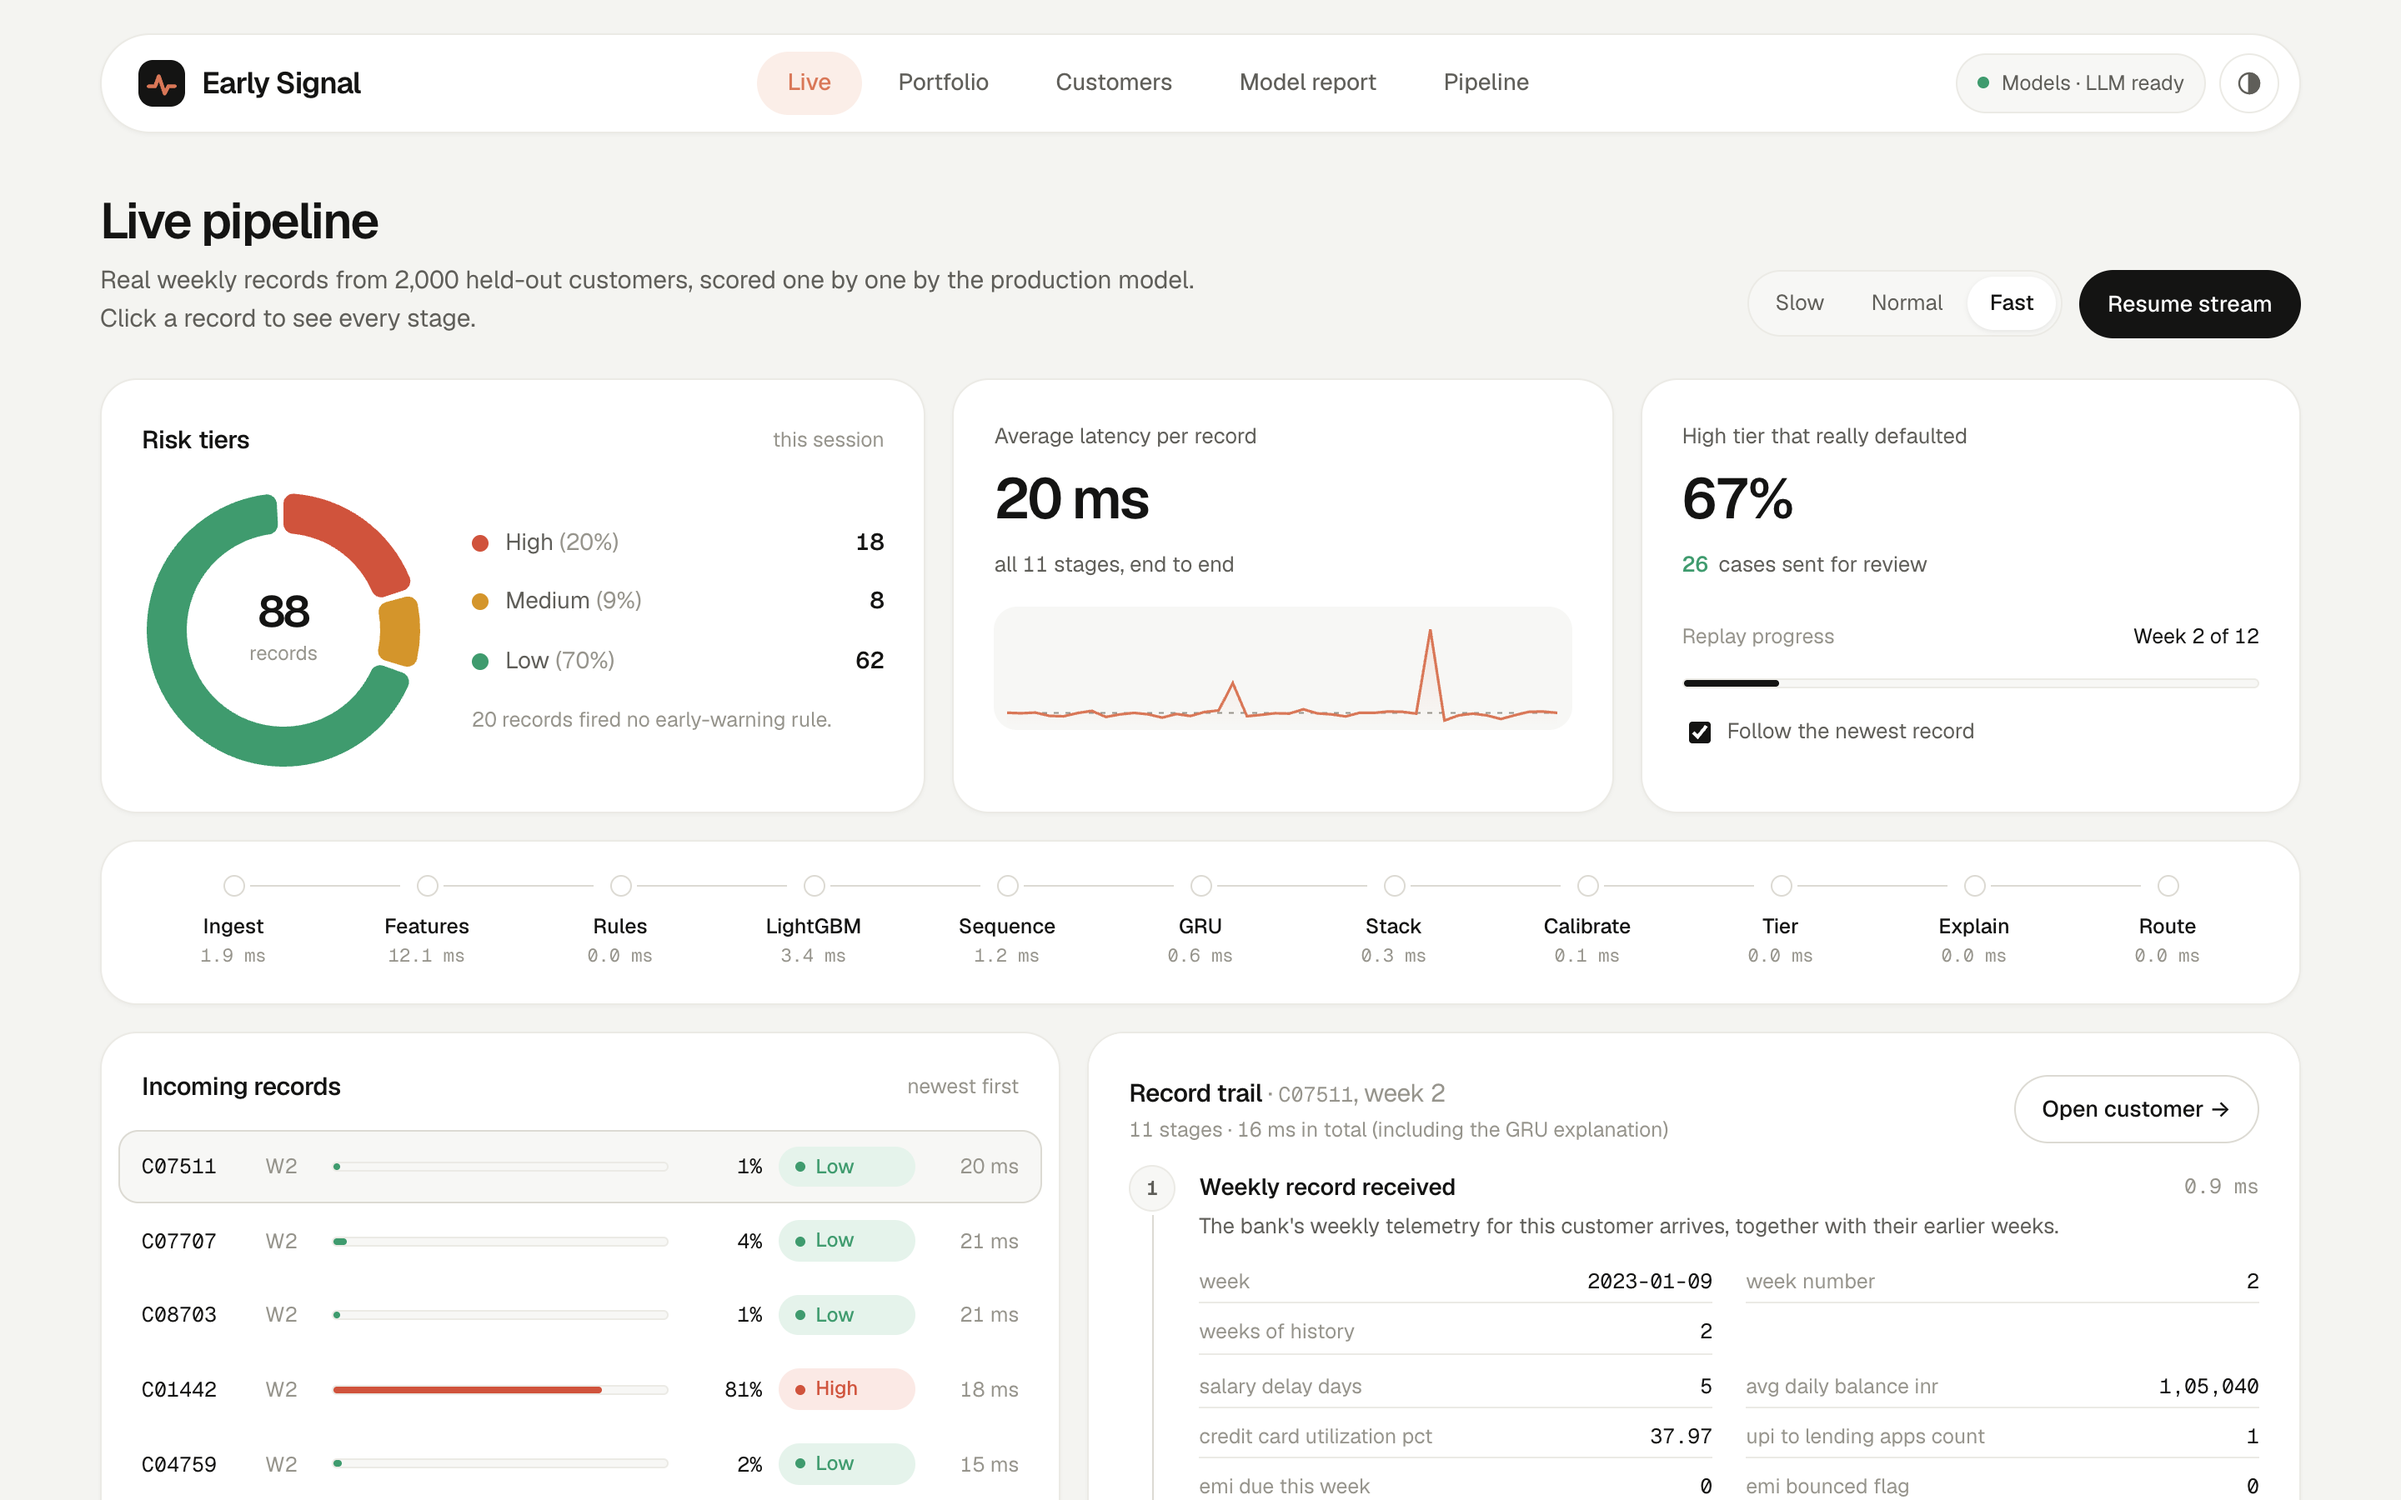
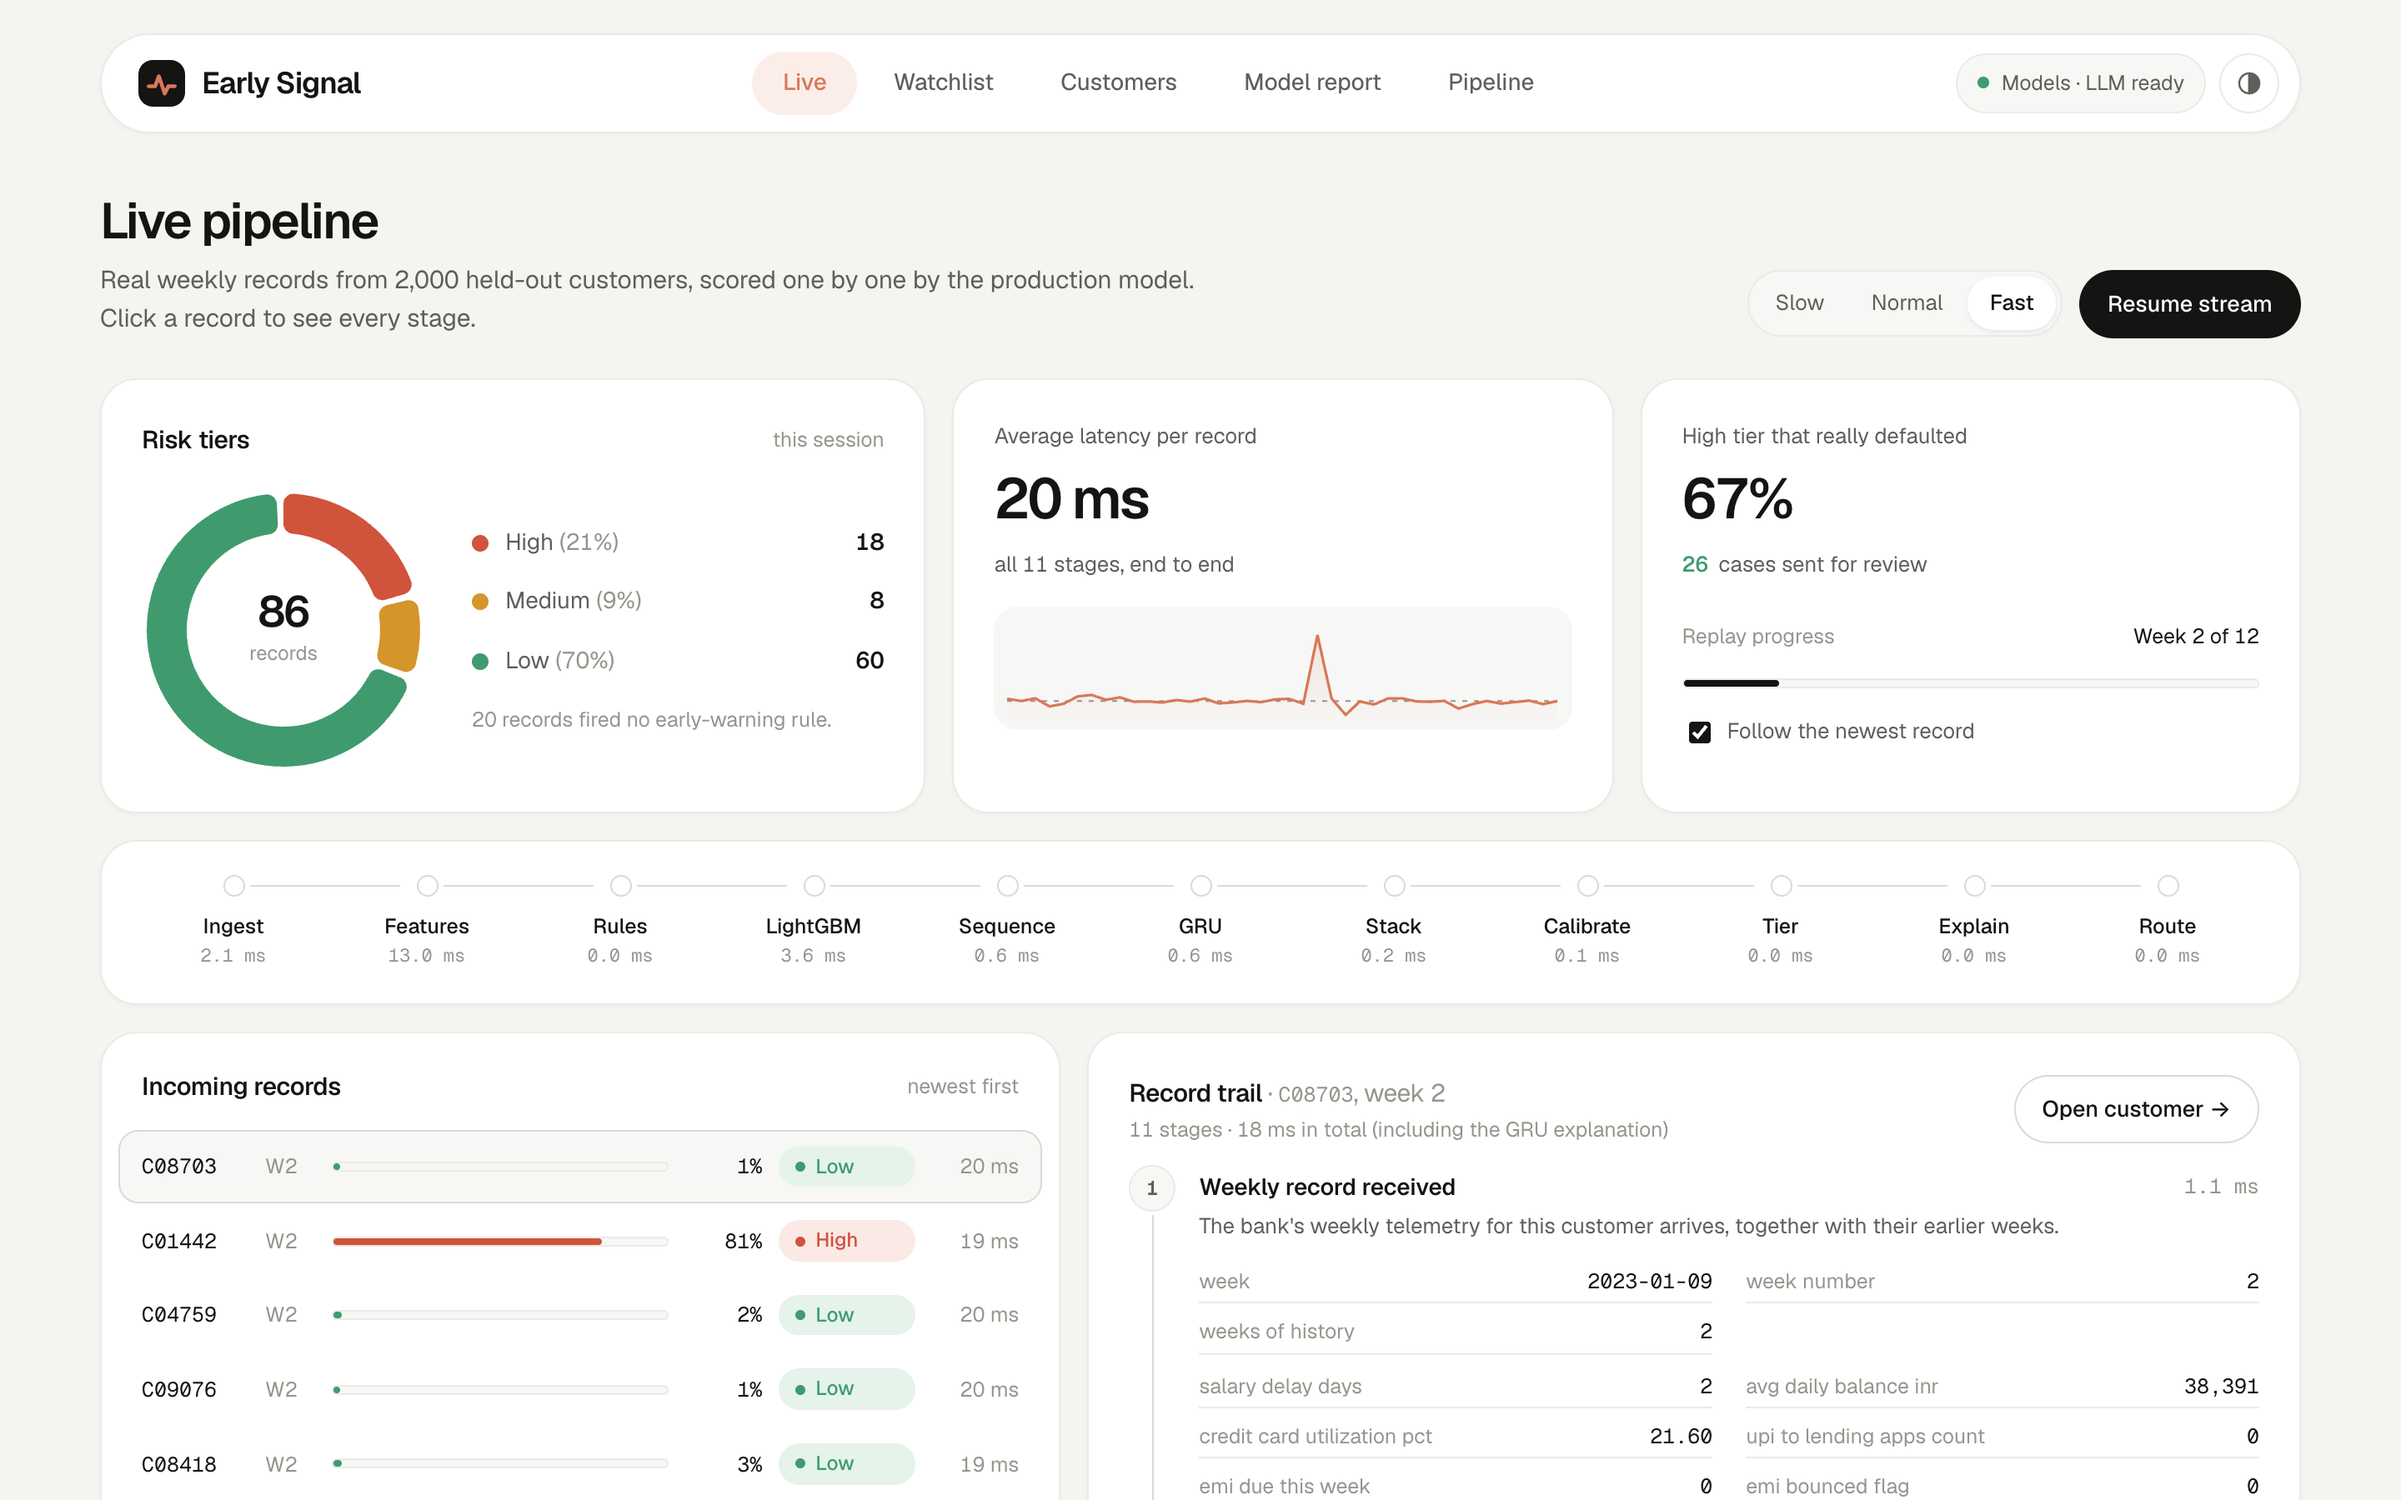
Rename the Portfolio page to Watchlist
The old /portfolio URL redirects to /watchlist. The API endpoint keeps
its name. The README screenshots are retaken with the new nav label.

diff --git a/frontend/src/App.tsx b/frontend/src/App.tsx
@@ -1,9 +1,9 @@
 import { useEffect, useState } from "react";
-import { NavLink, Route, Routes } from "react-router-dom";
+import { Navigate, NavLink, Route, Routes } from "react-router-dom";
 import { api, Health } from "./api";
 import { Logo } from "./components/ui";
 import Overview from "./pages/Overview";
-import Portfolio from "./pages/Portfolio";
+import Watchlist from "./pages/Watchlist";
 import Customer from "./pages/Customer";
 import Pipeline from "./pages/Pipeline";
 import Live from "./pages/Live";
@@ -40,7 +40,7 @@ export default function App() {
         <div className="brand"><Logo /><span className="brand-name">Early Signal</span></div>
         <nav className="nav">
           <NavLink to="/" end className="nav-item">Live</NavLink>
-          <NavLink to="/portfolio" className="nav-item">Portfolio</NavLink>
+          <NavLink to="/watchlist" className="nav-item">Watchlist</NavLink>
           <NavLink to="/customer" className="nav-item">Customers</NavLink>
           <NavLink to="/report" className="nav-item">Model report</NavLink>
           <NavLink to="/pipeline" className="nav-item">Pipeline</NavLink>
@@ -56,7 +56,8 @@ export default function App() {
         <Routes>
           <Route path="/" element={<Live />} />
           <Route path="/report" element={<Overview />} />
-          <Route path="/portfolio" element={<Portfolio />} />
+          <Route path="/watchlist" element={<Watchlist />} />
+          <Route path="/portfolio" element={<Navigate to="/watchlist" replace />} />
           <Route path="/customer" element={<Customer />} />
           <Route path="/customer/:id" element={<Customer />} />
           <Route path="/pipeline" element={<Pipeline />} />

diff --git a/frontend/src/pages/Watchlist.tsx b/frontend/src/pages/Watchlist.tsx
@@ -3,7 +3,7 @@ import { useNavigate } from "react-router-dom";
 import { api, Portfolio as P, pct } from "../api";
 import { Loading, RiskBar, Stat, TierPill } from "../components/ui";
 
-export default function Portfolio() {
+export default function Watchlist() {
   const nav = useNavigate();
   const [data, setData] = useState<P | null>(null);
   const [week, setWeek] = useState<number | undefined>();
@@ -25,7 +25,7 @@ export default function Portfolio() {
     <div className="page">
       <div className="page-head">
         <div>
-          <h1>Portfolio</h1>
+          <h1>Watchlist</h1>
           <p className="lede">Held-out customers for week {data.week_idx + 1}, ranked by calibrated risk. Click a row to see why.</p>
         </div>
         <input className="input" style={{ maxWidth: 240 }} placeholder="Search customer ID" value={q} onChange={(e) => setQ(e.target.value)} />

diff --git a/README.md b/README.md
@@ -23,9 +23,9 @@ weekly panel ─┬─> LightGBM (current standing + EMI phase + causal trends) 
 
 ![Approval queue](docs/screenshots/approval-queue.png)
 
-**Portfolio.** All 2,000 test customers for one week, ranked by calibrated risk.
+**Watchlist.** All 2,000 test customers for one week, ranked by calibrated risk.
 
-![Portfolio](docs/screenshots/portfolio.png)
+![Watchlist](docs/screenshots/watchlist.png)
 
 **Customer analysis.** The risk for each week, the fusion of the two models and the rules that fired.
 
@@ -139,7 +139,7 @@ src/ews/
   llm.py         Groq narrative with template fallback
 scripts/train.py full training + evaluation + figures
 api/main.py      FastAPI: /api/stream (SSE live pipeline), /trace, /queue, /audit, /metrics, /portfolio, /customers/{id}, /score, /narrative
-frontend/        React + Vite UI (Live pipeline, Model report, Portfolio, Customer analysis, Pipeline & ablations)
+frontend/        React + Vite UI (Live pipeline, Model report, Watchlist, Customer analysis, Pipeline & ablations)
 ```
 
 ## Data
